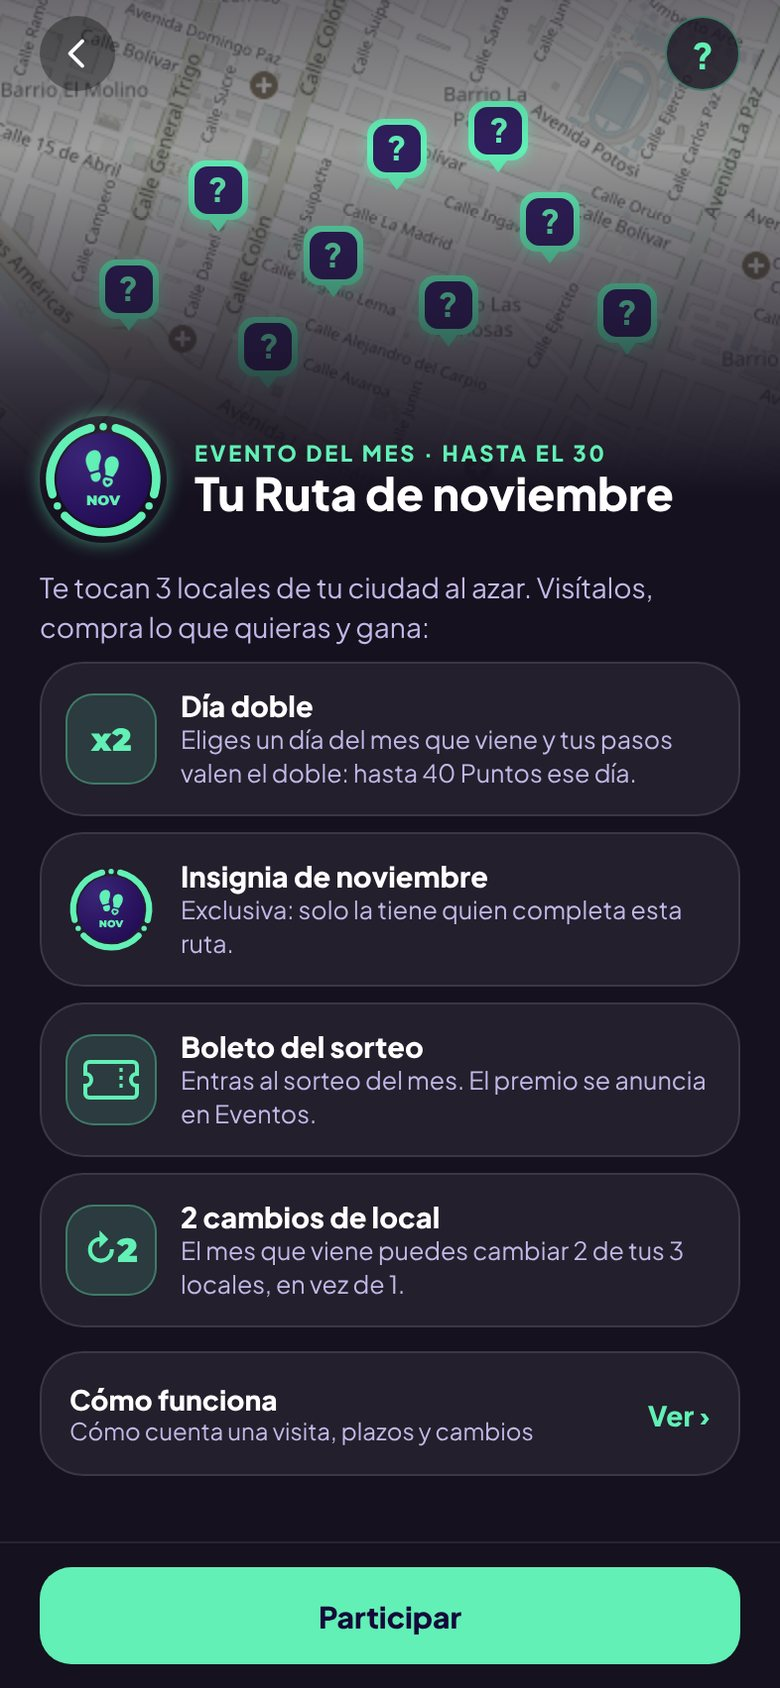
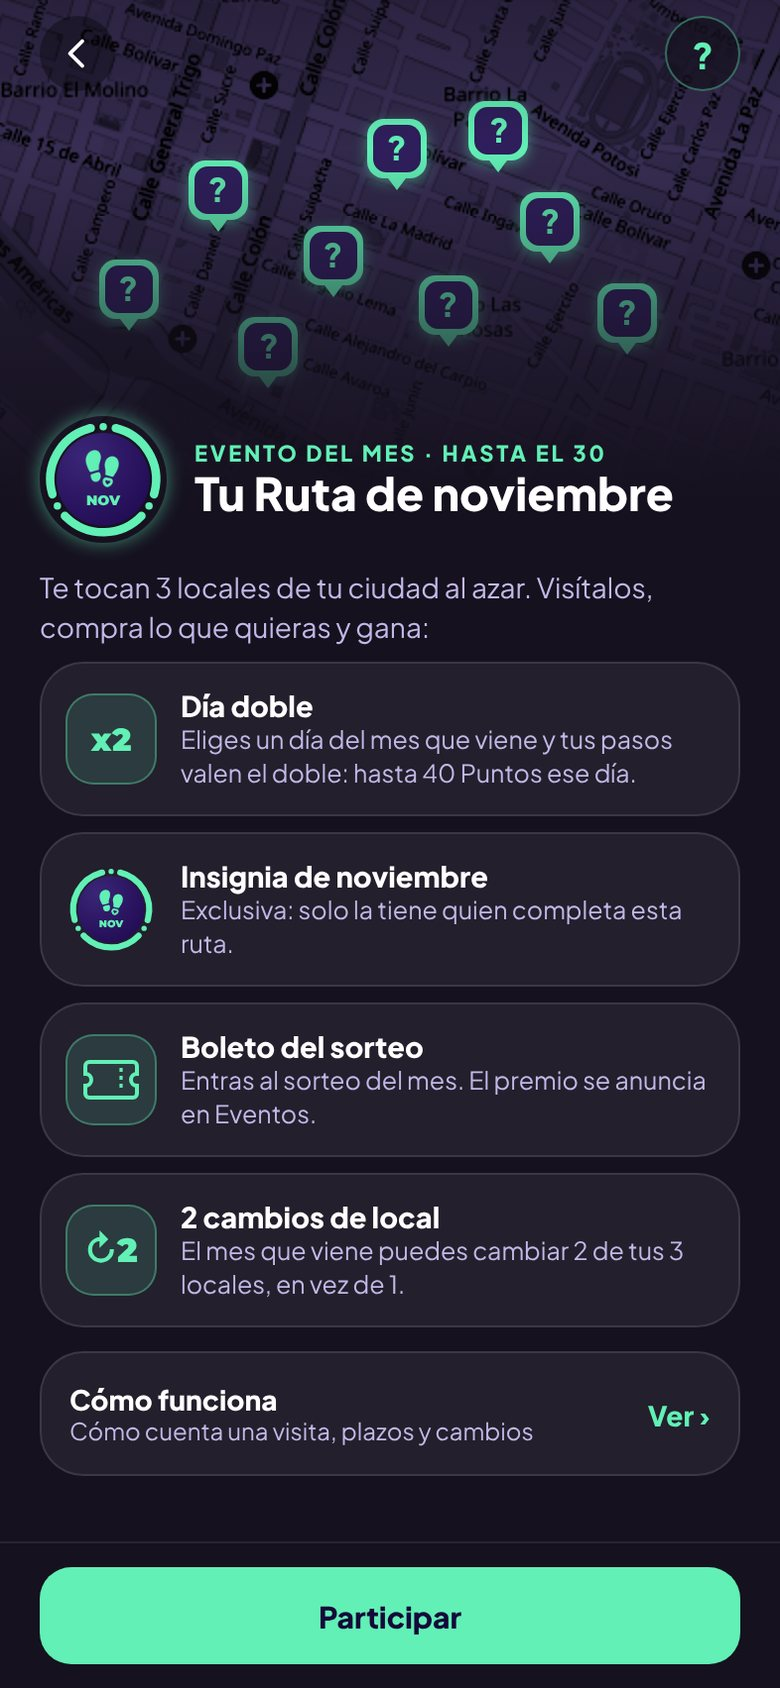
Ganadores del sorteo de la Ruta en Eventos y en la Ruta; web: mapa morado en las capturas y barra fija en el celular; panel achica las fotos antes de subirlas (#150)
Claude-Session: https://claude.ai/code/session_015nrNqqbD4FCEYvEcFycp7w

Changed region(s): [[0.0, 0.0, 1.0, 0.2464]]

diff --git a/apps/mobile/src/app/(tabs)/ruta.tsx b/apps/mobile/src/app/(tabs)/ruta.tsx
@@ -26,7 +26,7 @@ import { DARK_MAP_STYLE } from '@/constants/map-style';
 import { friendlyServerError } from '@/lib/errors';
 import { celebrate } from '@/store/useCelebrationStore';
 import {
-  rutaDone, rutaMonthName, rutaMonthShort, useJoinRuta, useMarkRutaVisit, usePickDoubleDay, useRuta, useRutaPrize, useRutaSwapOptions, useSwapRuta,
+  rutaDone, rutaMonthName, rutaMonthShort, useJoinRuta, useMarkRutaVisit, usePickDoubleDay, useLastRutaWinners, useRuta, useRutaPrize, useRutaSwapOptions, useSwapRuta,
   type RutaStop,
 } from '@/hooks/useRuta';
 
@@ -99,6 +99,7 @@ export default function RutaScreen() {
   const params = useLocalSearchParams<{ nueva?: string }>();
   const { data: state, isLoading, isError, refetch } = useRuta();
   const { data: prize } = useRutaPrize(state?.month);
+  const lastWinners = useLastRutaWinners(state?.month);
   useRutaDoneCelebration(state);
   const userId = useAuthStore((st) => st.session?.user.id);
   const photosReady = useBadgesReady();
@@ -336,6 +337,7 @@ export default function RutaScreen() {
             </View>
           </View>
           <Text style={{ color: MUTED, fontSize: 14, lineHeight: 20, marginTop: 12 }}>Te tocan 3 locales de tu ciudad al azar. Visítalos, compra lo que quieras y gana:</Text>
+          {lastWinners ? <RutaPrizeCard prize={lastWinners} compact /> : null}
           {prize ? <RutaPrizeCard prize={prize} /> : null}
           <Premio icon={<Bubble><Text style={{ color: MINT, ...heavy(), fontSize: 16 }}>x2</Text></Bubble>} title="Día doble" body="Eliges un día del mes que viene y tus pasos valen el doble: hasta 40 Puntos ese día." />
           <Premio icon={<RutaRing size={46} done={3} month={rutaMonthShort(state.month)} glow={false} />} title={`Insignia de ${month}`} body="Exclusiva: solo la tiene quien completa esta ruta." />
@@ -489,6 +491,7 @@ export default function RutaScreen() {
           )}
 
           {prize ? <RutaPrizeCard prize={prize} compact /> : null}
+          {lastWinners ? <RutaPrizeCard prize={lastWinners} compact /> : null}
 
           {state.prev_completed && <DoubleDayPicker value={state.double_day} busy={pickDay.isPending} onPick={async (d) => {
             try { await pickDay.mutateAsync(d); celebrate({ kind: 'sheet', title: '¡Día doble elegido!', body: 'Ese día tus pasos valen el doble.' }); }

diff --git a/apps/partner/src/components/ImageUpload.tsx b/apps/partner/src/components/ImageUpload.tsx
@@ -23,13 +23,15 @@ export function ImageUpload({
   const [uploading, setUploading] = useState(false);
   const [error, setError] = useState<string | null>(null);
 
-  async function handleFile(file: File) {
+  async function handleFile(original: File) {
     setUploading(true);
     setError(null);
+    // Las fotos del celular pesan varios MB y en la app se ven chicas: se achican antes de subir para que carguen rápido.
+    const file = await shrink(original, shape === 'circle' ? 600 : shape === 'wide' ? 1600 : 1200);
     const ext = file.name.split('.').pop() || 'jpg';
     const { error: uploadError } = await supabase.storage
       .from(bucket)
-      .upload(`${path}.${ext}`, file, { upsert: true, contentType: file.type });
+      .upload(`${path}.${ext}`, file, { upsert: true, contentType: file.type, cacheControl: '31536000' });
     setUploading(false);
     if (uploadError) {
       setError('No pudimos subir la foto. Intenta de nuevo.');
@@ -79,4 +81,26 @@ export function ImageUpload({
       {error && <p className="text-warn text-[11.5px] mt-1">{error}</p>}
     </div>
   );
+}
+
+// Achica la foto en el navegador: el lado mayor queda en `max` px. PNG sigue en PNG (puede tener transparencia, como un
+// logo); lo demás va a JPEG 0,85. Si algo falla o la foto ya es chica, se sube la original.
+async function shrink(file: File, max: number): Promise<File> {
+  try {
+    if (!file.type.startsWith('image/') || file.type === 'image/gif' || file.type === 'image/svg+xml') return file;
+    const bmp = await createImageBitmap(file);
+    const scale = Math.min(1, max / Math.max(bmp.width, bmp.height));
+    if (scale === 1 && file.size < 400_000) return file;
+    const canvas = document.createElement('canvas');
+    canvas.width = Math.round(bmp.width * scale);
+    canvas.height = Math.round(bmp.height * scale);
+    canvas.getContext('2d')!.drawImage(bmp, 0, 0, canvas.width, canvas.height);
+    const png = file.type === 'image/png';
+    const blob = await new Promise<Blob | null>((ok) => canvas.toBlob(ok, png ? 'image/png' : 'image/jpeg', 0.85));
+    if (!blob || blob.size >= file.size) return file;
+    const name = file.name.replace(/\.[^.]+$/, '') + (png ? '.png' : '.jpg');
+    return new File([blob], name, { type: blob.type });
+  } catch {
+    return file;
+  }
 }

diff --git a/apps/mobile/src/app/(tabs)/eventos.tsx b/apps/mobile/src/app/(tabs)/eventos.tsx
@@ -18,7 +18,8 @@ import { useAuthStore } from '@/store/useAuthStore';
 import { useTabBarSpace } from '@/components/ui/GlassTabBar';
 import { friendlyServerError } from '@/lib/errors';
 import { ChallengeCard, EventCard, PromoSheet, RetoCamina } from '@/components/promos/PromoCards';
-import { useRuta } from '@/hooks/useRuta';
+import { useLastRutaWinners, useRuta } from '@/hooks/useRuta';
+import { RutaPrizeCard } from '@/components/ruta/RutaPrizeCard';
 import { RutaEventCard } from '@/components/ruta/RutaEventCard';
 
 export default function EventosScreen() {
@@ -40,6 +41,7 @@ export default function EventosScreen() {
   const challenges = (promos ?? []).filter((p) => p.kind === 'desafio' || p.kind === 'sorteo');
   // Ruta del mes: tarjeta grande arriba de los eventos. Solo aparece si hay al menos 3 locales que participan.
   const { data: ruta } = useRuta();
+  const lastWinners = useLastRutaWinners(ruta?.month);
   const showRuta = !!ruta && (ruta.joined || ruta.eligible_count >= 3);
 
   async function handleJoin(p: PromotionItem) {
@@ -125,6 +127,8 @@ export default function EventosScreen() {
           {showRuta && (
             <RutaEventCard state={ruta} width={cardSize} onOpen={() => router.push('/(tabs)/ruta')} onParticipate={() => router.push('/(tabs)/ruta')} />
           )}
+          {/* Ganadores del sorteo de la Ruta del mes pasado (cuando ya se sorteó). */}
+          {lastWinners ? <View style={{ width: cardSize, marginTop: -12 }}><RutaPrizeCard prize={lastWinners} compact /></View> : null}
           {events.map((p) => <EventCard key={p.id} p={p} size={cardSize} onPress={() => setOpen(p)} />)}
         </View>
       )}

diff --git a/apps/mobile/src/components/ruta/RutaPrizeCard.tsx b/apps/mobile/src/components/ruta/RutaPrizeCard.tsx
@@ -3,7 +3,7 @@ import { Image } from 'expo-image';
 import { LinearGradient } from 'expo-linear-gradient';
 import { Text } from '@/components/ui/Text';
 import { heavy } from '@/components/ruta/heavy';
-import type { RutaPrize } from '@/hooks/useRuta';
+import { rutaMonthName, type RutaPrize } from '@/hooks/useRuta';
 
 const MINT = '#62F0B6';
 
@@ -24,7 +24,7 @@ export function RutaPrizeCard({ prize, compact = false }: { prize: RutaPrize; co
           <Image source={{ uri: prize.image_url }} cachePolicy="memory-disk" contentFit="cover" style={{ width: 52, height: 52, borderRadius: 14 }} />
         ) : null}
         <View style={{ flex: 1 }}>
-          <Text style={{ color: MINT, fontWeight: '800', fontSize: 11, letterSpacing: 1.3 }}>{drawn ? 'GANADORES DEL SORTEO' : 'PREMIO DEL SORTEO'}</Text>
+          <Text style={{ color: MINT, fontWeight: '800', fontSize: 11, letterSpacing: 1.3 }}>{drawn ? `GANADORES DEL SORTEO DE ${rutaMonthName(prize.month).toUpperCase()}` : 'PREMIO DEL SORTEO'}</Text>
           <Text style={{ ...heavy(), color: '#fff', fontSize: compact ? 15 : 18, lineHeight: compact ? 19 : 22, marginTop: 2 }} numberOfLines={2}>{prize.title}</Text>
           {drawn ? (
             <Text style={{ color: '#C4B8E8', fontSize: 12.5, marginTop: 3 }}>

diff --git a/apps/partner/src/components/landing/glass.css b/apps/partner/src/components/landing/glass.css
@@ -159,7 +159,8 @@
 .lp-sec .lead+.bento{margin-top:32px}
 .bento-nota{margin-top:26px}
 .lp-sec .wrap>.lead{margin-bottom:0}
-@media (max-width:640px){.lp .lp-nav{position:absolute}}
+/* La barra queda fija arriba también en el celular (antes se iba con el scroll). */
+@media (max-width:640px){.lp .lp-nav{position:fixed;top:8px}}
 
 /* huellas del inicio: una fila pareja pegada al borde de abajo, que se desvanece a los costados y no pasa por detrás de los textos */
 .lp .hero-trail{inset:auto 0 18px 0;height:96px;opacity:.7;-webkit-mask-image:linear-gradient(90deg,transparent,#000 14%,#000 86%,transparent);mask-image:linear-gradient(90deg,transparent,#000 14%,#000 86%,transparent);filter:drop-shadow(0 0 10px rgba(127,237,196,.45))}

diff --git a/apps/mobile/src/hooks/useRuta.ts b/apps/mobile/src/hooks/useRuta.ts
@@ -146,3 +146,16 @@ export function useRutaPrize(month?: string | null) {
     },
   });
 }
+
+// Mes anterior ("2026-11-01" → "2026-10-01"), para mostrar los ganadores del sorteo pasado.
+export function prevRutaMonth(month: string) {
+  const [y, m] = month.split('-').map(Number);
+  const d = new Date(Date.UTC(y, m - 2, 1));
+  return d.toISOString().slice(0, 10);
+}
+
+// Ganadores del sorteo del mes pasado (solo si ya se sorteó).
+export function useLastRutaWinners(month?: string | null) {
+  const q = useRutaPrize(month ? prevRutaMonth(month) : null);
+  return q.data && q.data.drawn_at ? q.data : null;
+}
